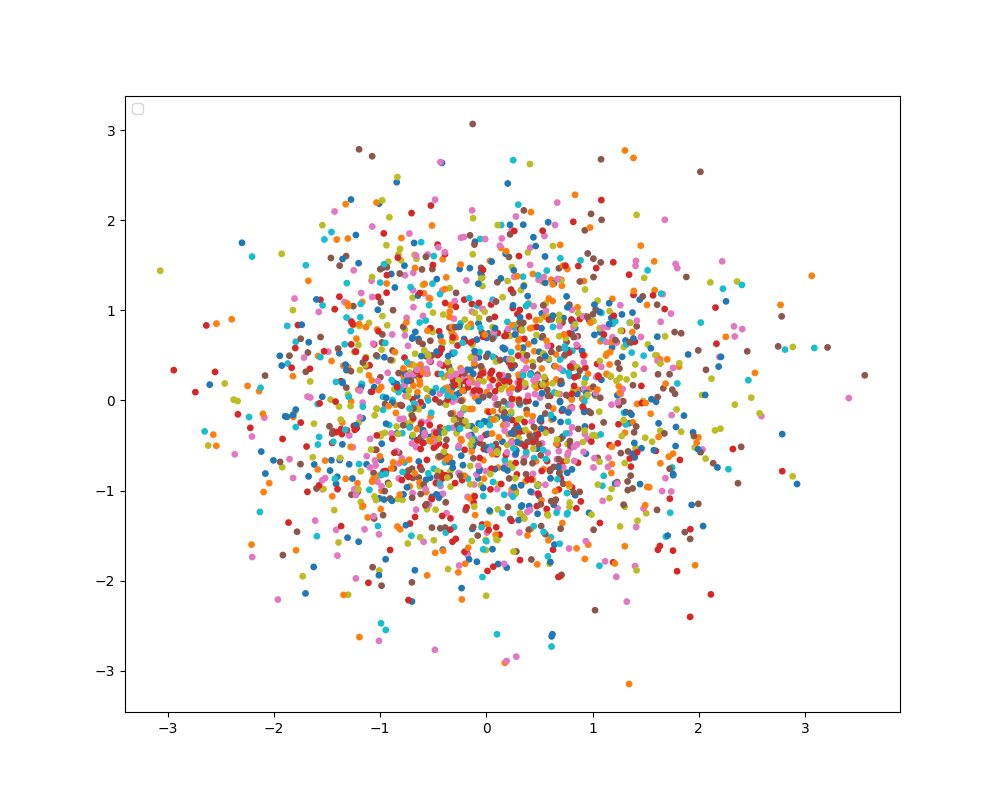
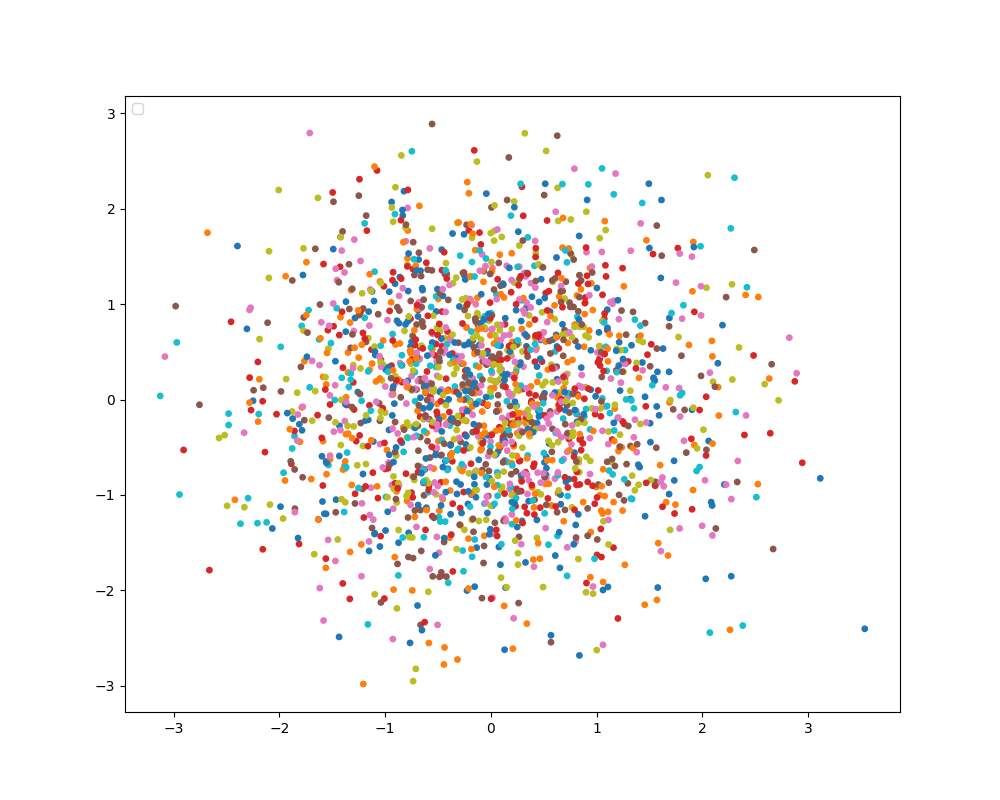
pop

diff --git a/16/Auto encoder/autoencoder_real.py b/16/Auto encoder/autoencoder_real.py
@@ -99,13 +99,14 @@ class VAE(nn.Module):
     x = self.decoder(z)
     return x, z, ave, log_dev
 def criterion(predict, target, ave, log_dev):
-  bce_loss = F.binary_cross_entropy(predict, target, reduction='sum')
-  kl_loss = -0.5 * torch.sum(1 + log_dev - ave**2 - log_dev.exp())
-  loss = bce_loss + kl_loss
+  loss = nn.L1Loss(predict,target)
+  # bce_loss = F.binary_cross_entropy(predict, target, reduction='sum')
+  # kl_loss = -0.5 * torch.sum(1 + log_dev - ave**2 - log_dev.exp())
+  # loss = bce_loss + kl_loss
   return loss
 
 z_dim = 2
-num_epochs = 20
+num_epochs = 100
 
 device = torch.device("cuda:0" if torch.cuda.is_available() else "cpu") 
 model = VAE(z_dim).to(device)
@@ -150,8 +151,8 @@ for epoch in range(num_epochs):
       # Min-Max正規化の公式を使用
       input = (input - min_val) / (max_val - min_val)
       loss = criterion(output, input, ave, log_dev)
-      loss = criterion(output, input, ave, log_dev)
-      history["val_loss"].append(loss)
+      # loss = criterion(output, input, ave, log_dev)
+    history["val_loss"].append(loss)
       
     print(f'Epoch: {epoch+1}, val_loss: {loss: 0.4f}')
   
@@ -167,11 +168,24 @@ val_loss_np = val_loss_tensor.to('cpu').detach().numpy().copy()
 plt.plot(val_loss_np)
 plt.savefig('val.png')
 plt.close()
-val_loss_tensor = torch.stack(history["val_loss"])
-val_loss_np = val_loss_tensor.to('cpu').detach().numpy().copy()
-plt.plot(val_loss_np)
-plt.savefig('?.png')
+# val_loss_tensor = torch.stack(history["val_loss"])
+# val_loss_np = val_loss_tensor.to('cpu').detach().numpy().copy()
+# plt.plot(val_loss_np)
+# plt.savefig('?.png')
+# plt.close()
+val_loss = torch.stack(history["val_loss"]).cpu().numpy()
+epochs = range(len(val_loss))
+plt.plot(epochs, val_loss, label='Validation Loss', color='orange')
+plt.title('Validation Loss')
+plt.xlabel('Iterations')
+plt.ylabel('Loss')
+plt.legend()
+plt.grid(True)
+
+plt.savefig('vae_loss_analysis.png')
 plt.close()
+
+
 ave_tensor = torch.stack(history["ave"])
 log_var_tensor = torch.stack(history["log_dev"])
 z_tensor = torch.stack(history["z"])
